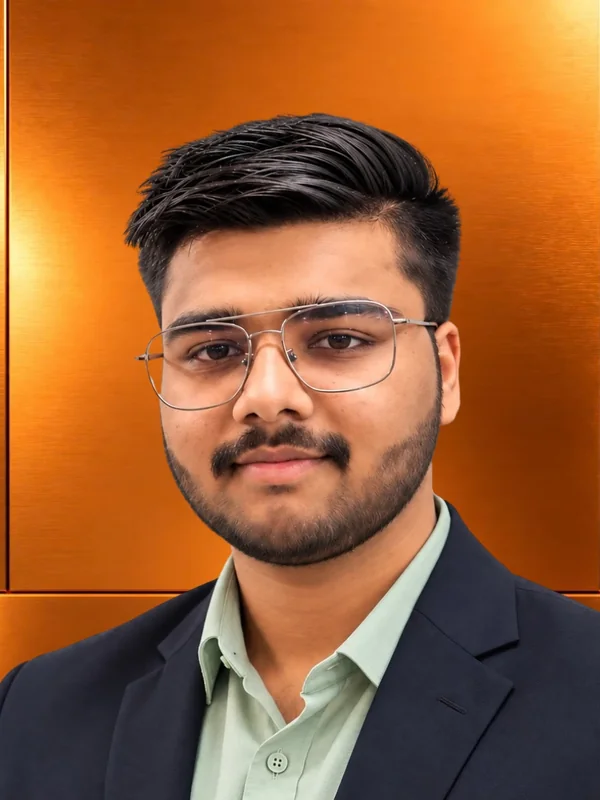
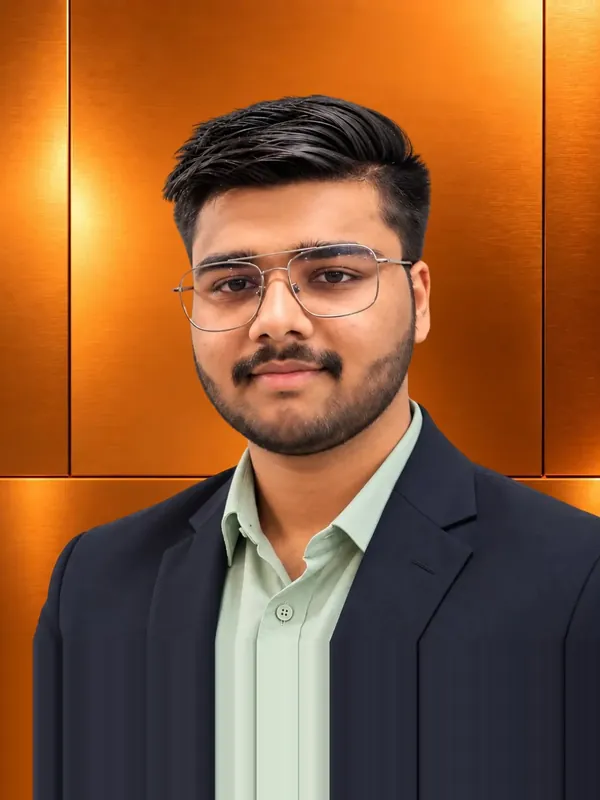
Grow the Design Team and refresh the mentor photos
The Design Team section now has Divyansh Maheshwari, Divyansh Shah
(Designer) and Tushar Vijay (Video Editor) alongside Yash and Palak,
with new photos for Divyansh Shah and Tushar. Rahul Garg's and
Rudraksh Dusad's photos are zoomed out to match the other cards, and
Divyansh Batti is corrected to Divyansh Bhati.

diff --git a/apps/web/app/page.tsx b/apps/web/app/page.tsx
@@ -98,6 +98,9 @@ const COMMITTEE = [
     members: [
       { name: "Yash Samriya", role: "Design Team", authLevel: "EXEC", imagePath: "/team/yash-samriya.webp" },
       { name: "Palak Choudhary", role: "Design Team", authLevel: "EXEC", imagePath: "/team/palak-choudhary.webp" },
+      { name: "Divyansh Maheshwari", role: "Design Team", authLevel: "EXEC", imagePath: "/team/divyansh-maheshwari.webp" },
+      { name: "Divyansh Shah", role: "Designer", authLevel: "EXEC", imagePath: "/team/divyansh-shah.webp" },
+      { name: "Tushar Vijay", role: "Video Editor", authLevel: "EXEC", imagePath: "/team/tushar-vijay.webp" },
     ],
   },
   {
@@ -110,7 +113,7 @@ const COMMITTEE = [
   {
     title: "Organizing Committee",
     members: [
-      { name: "Divyansh Batti", role: "Overall Support", authLevel: "STAFF", imagePath: "/team/divyansh-batti.webp" },
+      { name: "Divyansh Bhati", role: "Overall Support", authLevel: "STAFF", imagePath: "/team/divyansh-bhati.webp" },
       { name: "Shaurya", role: "Organizing Committee", authLevel: "STAFF", imagePath: "/team/shaurya.webp" },
       { name: "Aashi Goyal", role: "Round Table Coordinator", authLevel: "STAFF", imagePath: "/team/aashi-goyal.webp" },
       { name: "Aditya Mangal", role: "Panel Discussion Coordinator", authLevel: "STAFF", imagePath: "/team/aditya-mangal.webp" },
@@ -121,7 +124,6 @@ const COMMITTEE = [
       { name: "Nainika", role: "Organizing Committee", authLevel: "STAFF", imagePath: "/team/nainika.webp" },
       { name: "Kratika Sharma", role: "Round Table Coordinator", authLevel: "STAFF", imagePath: "/team/kratika-sharma.webp" },
       { name: "Ananya", role: "Round Table Coordinator", authLevel: "STAFF", imagePath: "/team/ananya.webp" },
-      { name: "Divyansh Maheshwari", role: "Video Editor", authLevel: "STAFF", imagePath: "/team/divyansh-maheshwari.webp" },
     ],
   },
 ];
